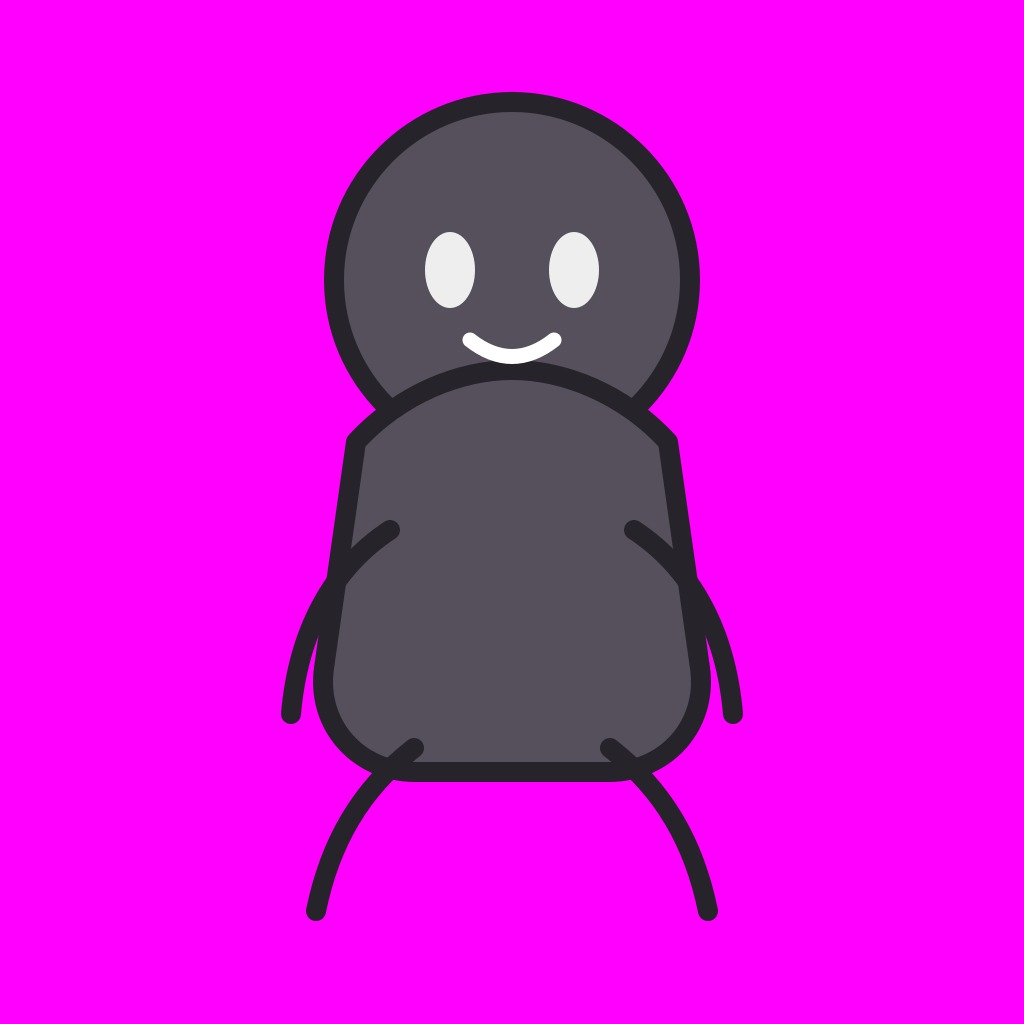
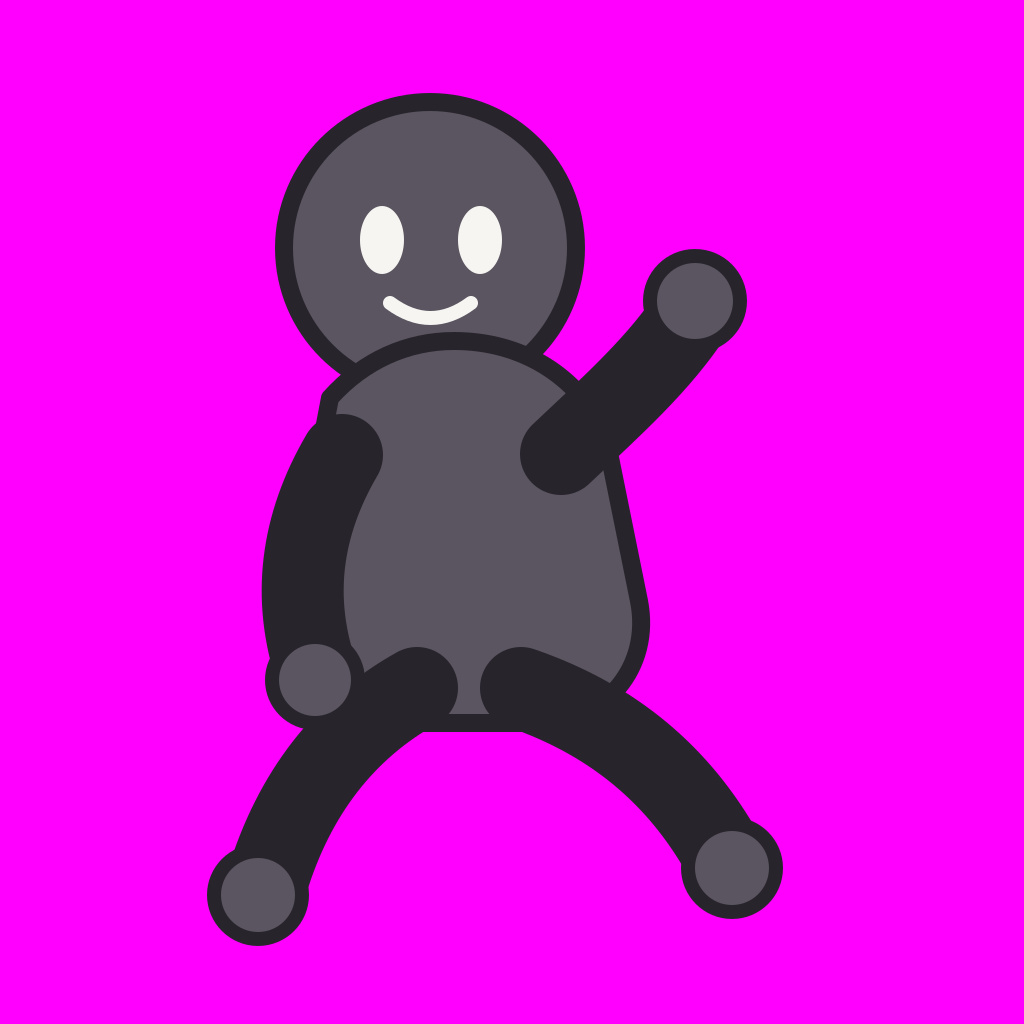
更新人物生成V4

Changed region(s): [[0.1875, 0.0625, 0.7812, 0.9375]]

diff --git a/server.js b/server.js
@@ -36,9 +36,10 @@ const SCENES = {
         ipPath: path.join(__dirname, "assets", "layers", "digital-ark-green", "ip.svg"),
         boatPath: path.join(__dirname, "assets", "layers", "digital-ark-green", "boat.svg"),
         ipLayout: { height: 520, left: 565, top: 72 },
-        personLayout: { width: 440, height: 560, left: 125, top: 92 },
+        personSourceSafeArea: { width: 590, height: 875, left: 190, top: 75 },
+        personCanvas: { width: 650, height: 650, left: 0, top: 38 },
         boatLayout: { width: 920, left: 52, top: 290 },
-        composition: "Create one isolated seated chibi guest in a relaxed three-quarter-body pose, facing the camera and smiling. Keep both arms and hands simple, visible and close to the body. The body must fit comfortably behind the front edge of a boat when composited later."
+        composition: "Create one isolated chibi guest sitting on the front-left rim of an invisible boat. Show the complete character from head through the seated hips, both arms and both bent legs; never crop the body into a bust portrait. The guest faces the camera with the torso angled slightly toward the companion on the viewer's right. The right hand makes one simple friendly wave toward that companion; the left hand rests naturally near the bent knee. Keep the exact placement and scale of the pose reference."
     }
 };
 const Q_STYLE_REFERENCE_PATH = path.join(__dirname, "assets", "q-style-reference.jpg");
@@ -167,8 +168,8 @@ async function removeBackgroundWithLeonardo(imageUrl) {
         body: JSON.stringify({
             model: 'remove-bg', public: false, ephemeral: true, base64: true,
             parameters: {
-                size: 'auto', type: 'graphic', channels: 'rgba', format: 'png', crop: true,
-                crop_margin: '4%', semitransparency: true, shadow_type: 'none', quantity: 1,
+                size: 'auto', type: 'graphic', channels: 'rgba', format: 'png', crop: false,
+                semitransparency: true, shadow_type: 'none', quantity: 1,
                 guidances: { image_reference: [{ image: { url: imageUrl, type: 'URL' } }] }
             }
         })
@@ -228,7 +229,8 @@ async function removeMagentaBackgroundLocally(imageBuffer) {
         data[index * channels + 3] = alpha;
     }
 
-    return sharp(data, { raw: info }).png().trim({ background: { r: 0, g: 0, b: 0, alpha: 0 } }).toBuffer();
+    // 保留原始 1024×1024 座標；不可裁切後再自動放大，否則人物會偏位或只剩頭部。
+    return sharp(data, { raw: info }).png().toBuffer();
 }
 
 async function createPersonCutout(imageUrl) {
@@ -247,15 +249,53 @@ async function resizeSvgLayer(filePath, options) {
     return sharp(filePath, { density: 216 }).resize(options).png().toBuffer();
 }
 
+async function normalizePersonToPoseCanvas(scene, personCutout) {
+    const trimmed = await sharp(personCutout)
+        .ensureAlpha()
+        .trim({ background: { r: 0, g: 0, b: 0, alpha: 0 }, threshold: 12 })
+        .png()
+        .toBuffer({ resolveWithObject: true });
+
+    if (trimmed.info.width > 995 && trimmed.info.height > 995) {
+        throw new Error('人物去背未成功，無法進行固定座位合成');
+    }
+
+    const safeArea = scene.personSourceSafeArea;
+    const normalizedSubject = await sharp(trimmed.data)
+        .resize({
+            width: safeArea.width,
+            height: safeArea.height,
+            fit: 'contain',
+            position: 'top',
+            withoutEnlargement: false,
+            background: { r: 0, g: 0, b: 0, alpha: 0 }
+        })
+        .png()
+        .toBuffer();
+
+    return sharp({
+        create: {
+            width: 1024,
+            height: 1024,
+            channels: 4,
+            background: { r: 0, g: 0, b: 0, alpha: 0 }
+        }
+    })
+        .composite([{ input: normalizedSubject, left: safeArea.left, top: safeArea.top }])
+        .png()
+        .toBuffer();
+}
+
 async function compositeFixedScene(scene, personCutout) {
+    const normalizedPersonCanvas = await normalizePersonToPoseCanvas(scene, personCutout);
     const [ipLayer, boatLayer, personLayer] = await Promise.all([
         resizeSvgLayer(scene.ipPath, { height: scene.ipLayout.height, fit: 'inside' }),
         resizeSvgLayer(scene.boatPath, { width: scene.boatLayout.width, fit: 'inside' }),
-        sharp(personCutout).resize({
-            width: scene.personLayout.width,
-            height: scene.personLayout.height,
+        sharp(normalizedPersonCanvas).resize({
+            width: scene.personCanvas.width,
+            height: scene.personCanvas.height,
             fit: 'contain',
-            position: 'bottom',
+            position: 'centre',
             background: { r: 0, g: 0, b: 0, alpha: 0 }
         }).png().toBuffer()
     ]);
@@ -264,8 +304,9 @@ async function compositeFixedScene(scene, personCutout) {
         .resize(OUTPUT_WIDTH, OUTPUT_HEIGHT)
         .composite([
             { input: ipLayer, left: scene.ipLayout.left, top: scene.ipLayout.top },
-            { input: personLayer, left: scene.personLayout.left, top: scene.personLayout.top },
-            { input: boatLayer, left: scene.boatLayout.left, top: scene.boatLayout.top }
+            { input: boatLayer, left: scene.boatLayout.left, top: scene.boatLayout.top },
+            // 人物坐在船緣上方，不再被整艘船遮到只剩頭；人物畫布本身就是安全區。
+            { input: personLayer, left: scene.personCanvas.left, top: scene.personCanvas.top }
         ])
         .flatten({ background: '#fffdf8' })
         .jpeg({ quality: 90, chromaSubsampling: '4:4:4' })
@@ -293,7 +334,7 @@ async function requestLeonardoGeneration(model, styleId, prompt, guestImageId, s
                 guidances: {
                     image_reference: [
                         { image: { id: guestImageId, type: "UPLOADED" }, strength: "MID" },
-                        { image: { id: sceneReferenceId, type: "UPLOADED" }, strength: "LOW" },
+                        { image: { id: sceneReferenceId, type: "UPLOADED" }, strength: "HIGH" },
                         { image: { id: qStyleReferenceId, type: "UPLOADED" }, strength: "HIGH" }
                     ]
                 }
@@ -314,8 +355,8 @@ async function generateLeonardoDualStyles(taskId, base64Image, sceneId) {
         const qStyleReferenceId = await getQStyleReferenceId();
         console.log(`⚡ 啟動「${scene.name}」雙模型 Q 版人物生成，完成後再固定分層合成...`);
 
-        const identityRules = "Reference 1 is the photographed guest and is the only identity reference. Preserve recognizable cues from the guest: hairstyle, hair color, glasses, clothing colors and accessories, but do not render a realistic adult face. Reference 2 is pose guidance only; follow its centered seated silhouette without copying its colors. Reference 3 is style only: copy its cute chibi proportions, simple facial language, textured outline and flat coloring, but never copy that reference person's identity, hairstyle, glasses or clothing.";
-        const isolationRules = "Generate exactly one isolated human guest. Do not generate any mascot, animal, boat, vehicle, scenery, prop, logo, letters or extra person. Use one perfectly uniform solid pure magenta #FF00FF background from edge to edge, with no texture, gradient, shadow or floor. Keep a generous clear margin around the complete character. Hands must be small, simple and anatomically clean, with no extra fingers or duplicated limbs.";
+        const identityRules = "Reference 1 is the photographed guest and is the only identity reference. Preserve recognizable cues from the guest: hairstyle, hair color, glasses, clothing colors and accessories, but do not render a realistic adult face. Reference 2 is strict full-canvas pose and placement guidance only: keep the smaller head, complete seated torso, raised right hand and two bent legs in the same coordinates, without copying its gray colors. Reference 3 is style only: copy its cute chibi proportions, simple facial language, textured outline and flat coloring, but never copy that reference person's identity, hairstyle, glasses or clothing.";
+        const isolationRules = "Generate exactly one isolated human guest and show the complete seated character, never a bust portrait or head-only portrait. Keep the character inside the left 75 percent of the square canvas and leave the right side clear for a fixed mascot added later. Do not generate any mascot, animal, boat, vehicle, scenery, prop, logo, letters or extra person. Use one perfectly uniform solid pure magenta #FF00FF background from edge to edge, with no texture, gradient, shadow or floor. Keep clear margin around the complete character. Hands must be small, simple and anatomically clean, with no extra fingers or duplicated limbs.";
         const promptA = `${identityRules} ${scene.composition} ${isolationRules} Transform the guest into an unmistakably super-cute chibi character with a very large round head, tiny compact body, about 2.5 heads tall, big simple oval black eyes, tiny nose and mouth, rosy cheeks, short simplified limbs, slightly thick hand-drawn crayon outlines, flat clean colors and almost no realistic shading. Match the original cute avatar style, not anime realism, watercolor portrait realism or photographic skin.`;
         const promptB = `${identityRules} ${scene.composition} ${isolationRules} Transform the guest into a recognizable chibi character about 3 heads tall. Keep more of the guest's face shape and personal features than version A while still using a large head, compact body, simple oval eyes, small nose and mouth, rosy cheeks, textured hand-drawn outlines, controlled flat colors and light paper texture. Match the original cute avatar style; avoid realistic facial rendering, realistic skin pores, long adult proportions and semi-photorealistic watercolor.`;
 
@@ -526,4 +567,16 @@ app.post('/api/admin/update-meta/:taskId', async (req, res) => {
     res.json({ success: true });
 });
 
-app.listen(PORT, () => { console.log(`🚀 雙重風格叫號伺服器運行中，監聽 PORT: ${PORT}`); });
+if (require.main === module) {
+    app.listen(PORT, () => { console.log(`🚀 雙重風格叫號伺服器運行中，監聽 PORT: ${PORT}`); });
+}
+
+module.exports = {
+    app,
+    testHelpers: {
+        SCENES,
+        removeMagentaBackgroundLocally,
+        normalizePersonToPoseCanvas,
+        compositeFixedScene
+    }
+};
